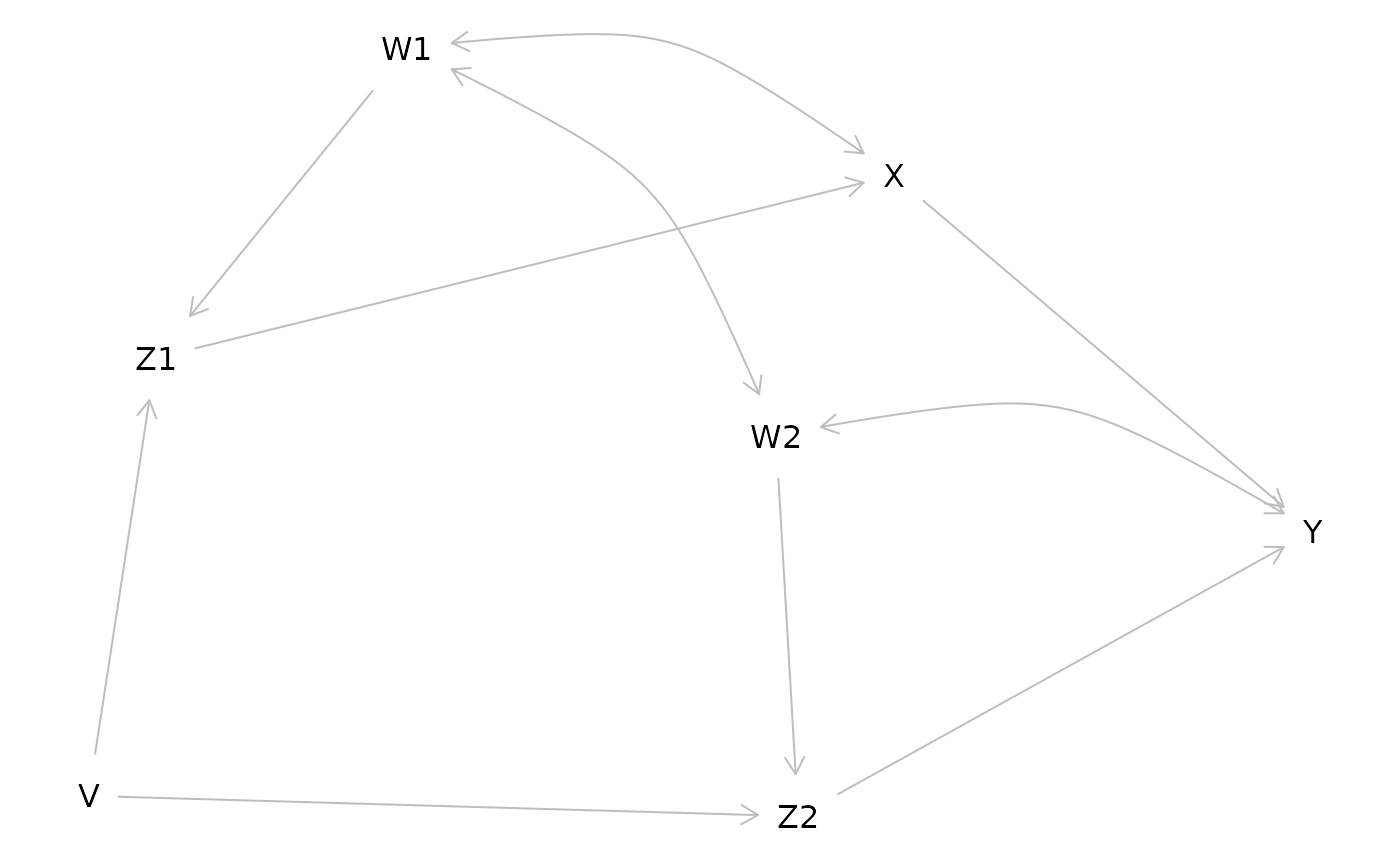
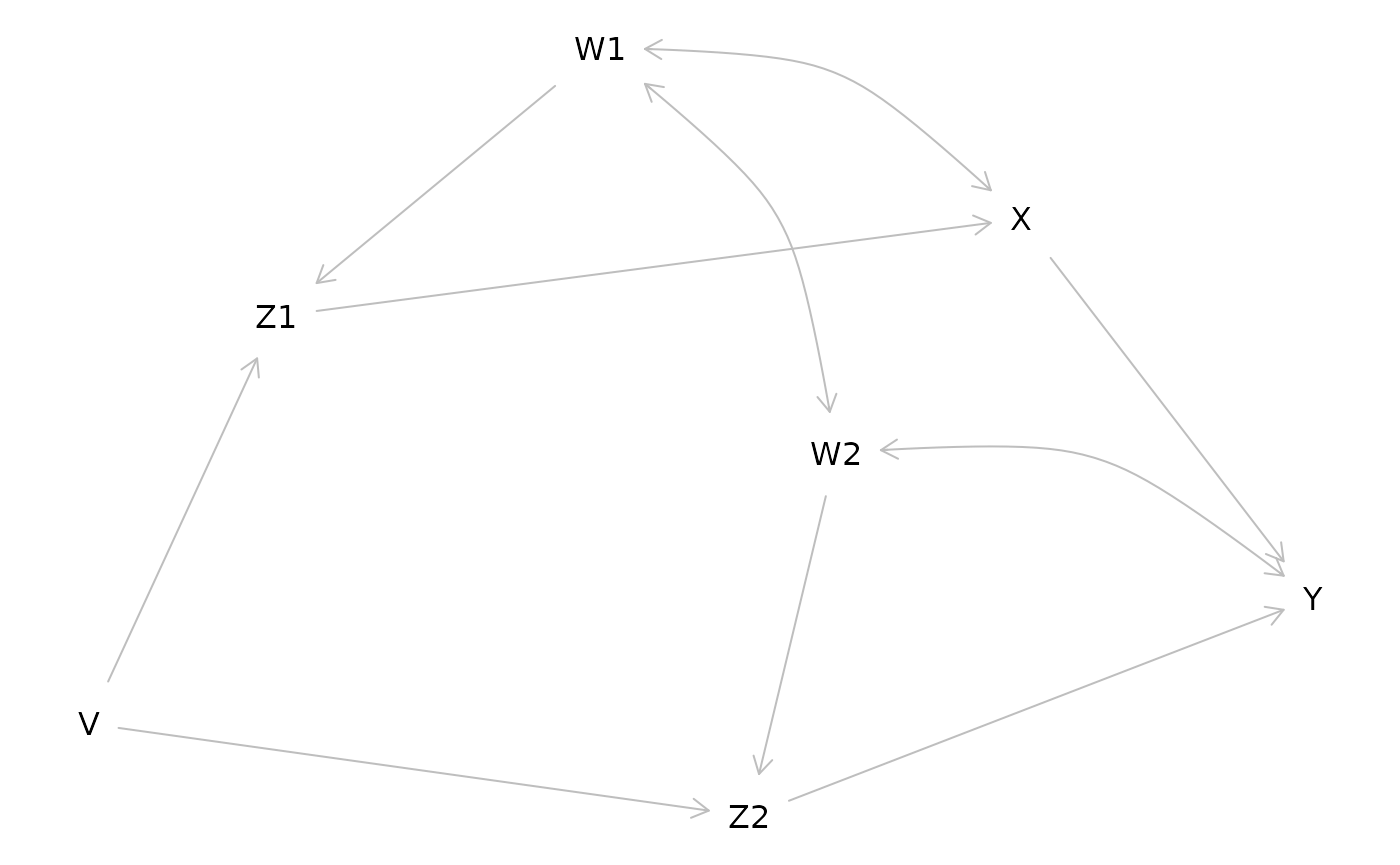
Deploying to gh-pages from @ choxos/dagittyplus@b0e1edbaed41b1c01650c5957f47904e1453ea4f 🚀

diff --git a/articles/dagitty4semusers.html b/articles/dagitty4semusers.html
@@ -59,7 +59,7 @@
                         <h4 data-toc-skip class="author">Johannes
 Textor</h4>
             
-            <h4 data-toc-skip class="date">2026-06-14</h4>
+            <h4 data-toc-skip class="date">2026-06-15</h4>
       
       <small class="dont-index">Source: <a href="https://github.com/choxos/dagittyplus/blob/master/vignettes/dagitty4semusers.Rmd" class="external-link"><code>vignettes/dagitty4semusers.Rmd</code></a></small>
       <div class="d-none name"><code>dagitty4semusers.Rmd</code></div>